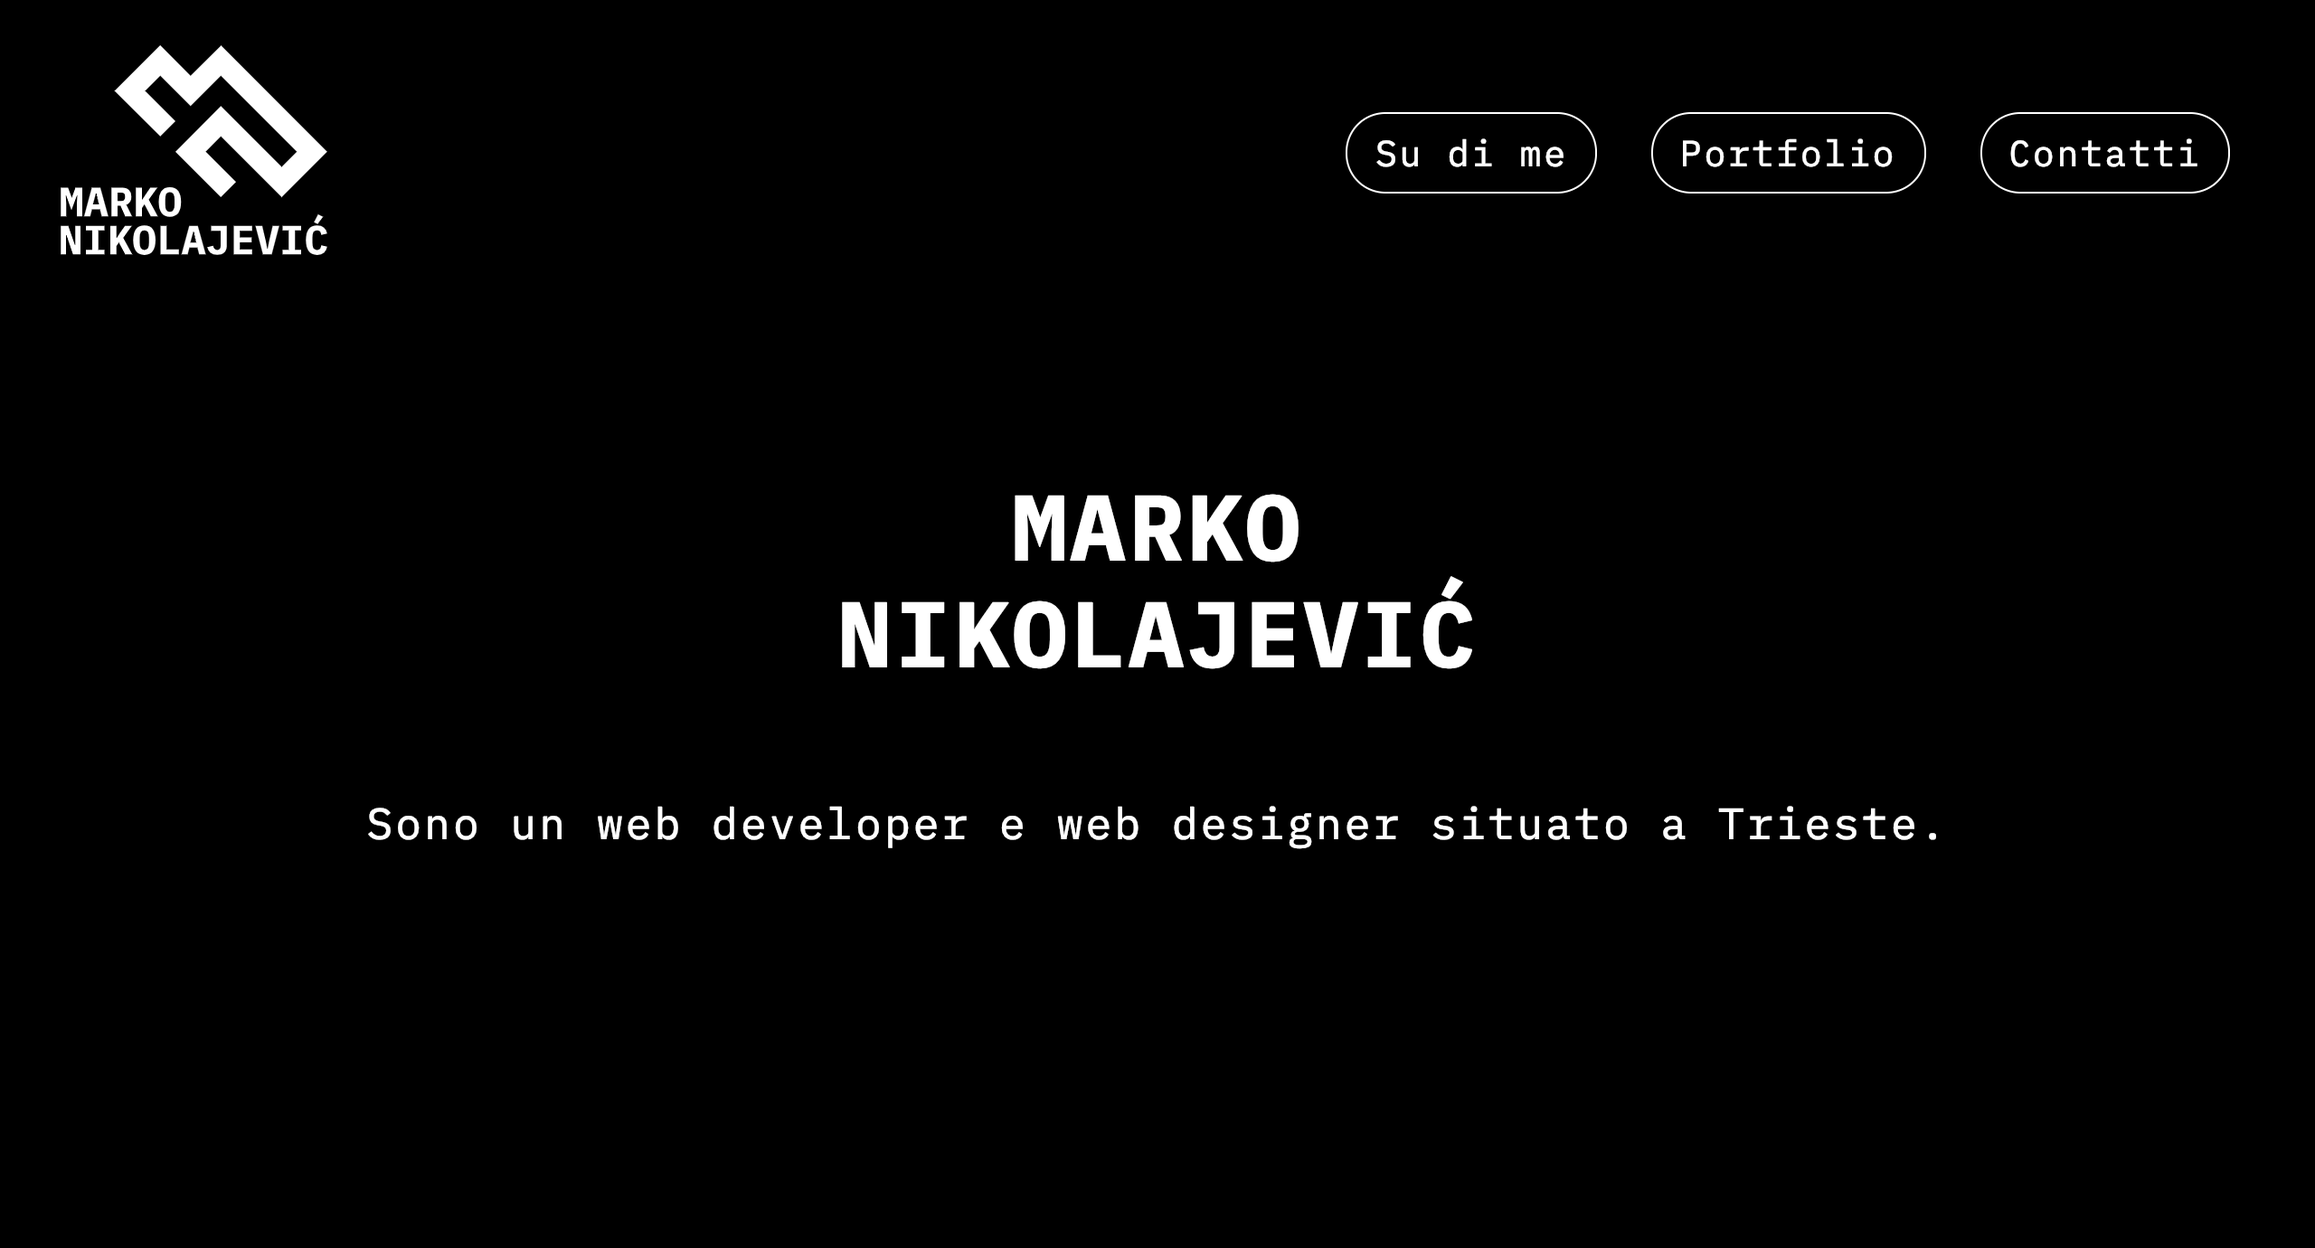
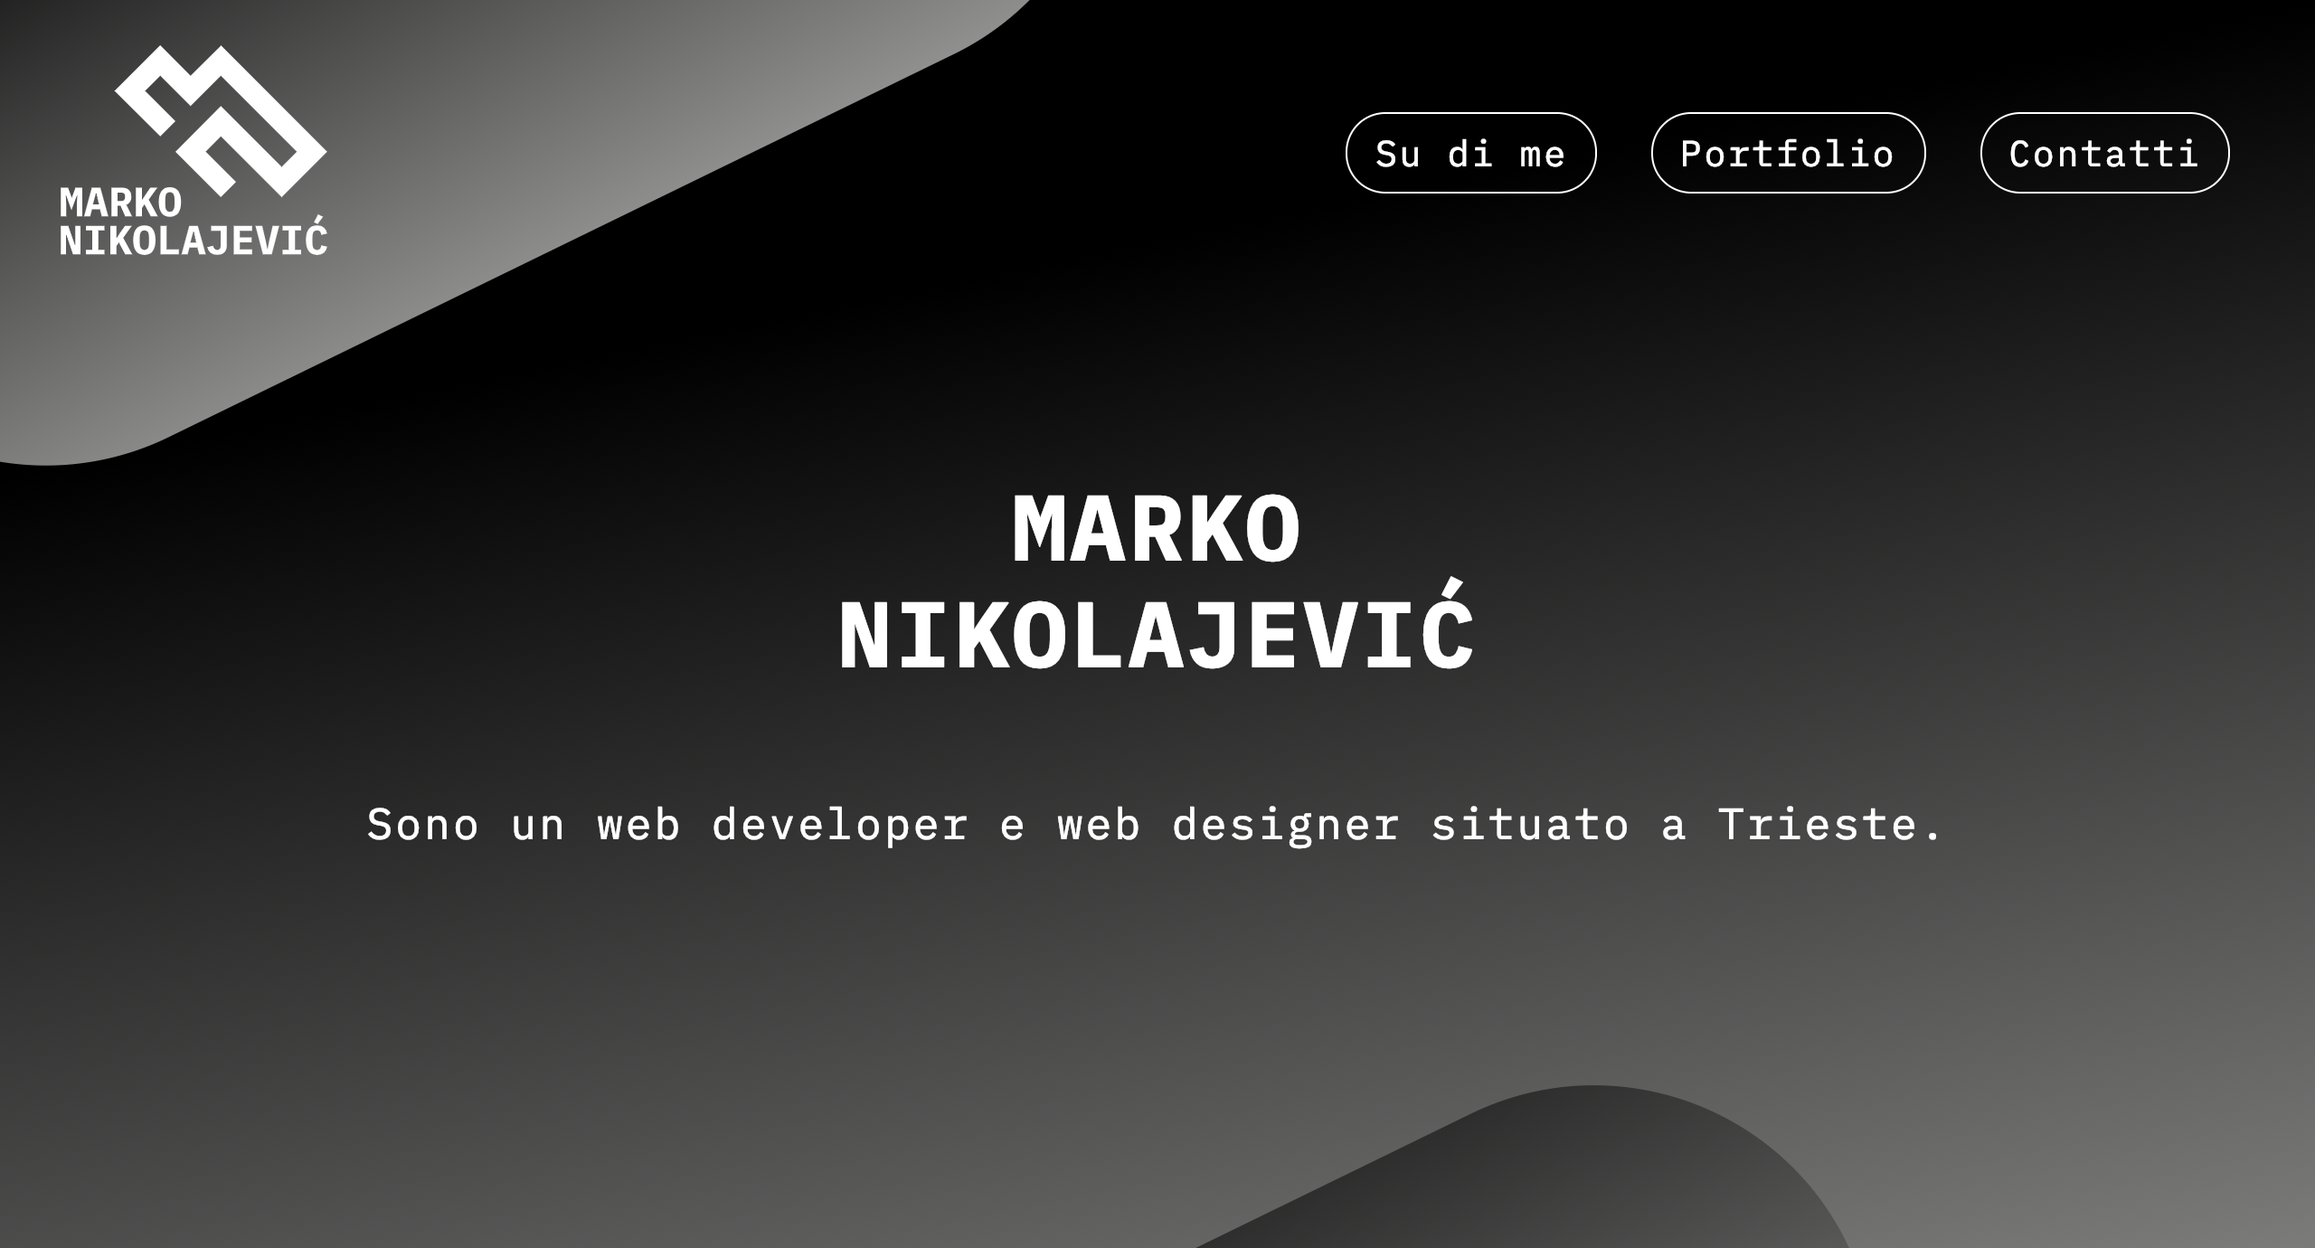
Updates

diff --git a/static/css/main.69d33846.chunk.css b/static/css/main.69d33846.chunk.css
@@ -1,0 +1,2 @@
+/*! normalize.css v8.0.1 | MIT License | github.com/necolas/normalize.css */html{line-height:1.15;-webkit-text-size-adjust:100%;scroll-behavior:smooth}body{margin:0;font-family:IBM Plex Mono,monospace}main{display:block}h1{font-size:2em;margin:.67em 0}hr{box-sizing:initial;height:0;overflow:visible}pre{font-family:monospace,monospace;font-size:1em}a{background-color:initial}abbr[title]{border-bottom:none;text-decoration:underline;text-decoration:underline dotted}b,strong{font-weight:bolder}code,kbd,samp{font-family:monospace,monospace;font-size:1em}small{font-size:80%}sub,sup{font-size:75%;line-height:0;position:relative;vertical-align:initial}sub{bottom:-.25em}sup{top:-.5em}img{border-style:none}button,input,optgroup,select,textarea{font-family:inherit;font-size:100%;line-height:1.15;margin:0}button,input{overflow:visible}button,select{text-transform:none}[type=button],[type=reset],[type=submit],button{-webkit-appearance:button}[type=button]::-moz-focus-inner,[type=reset]::-moz-focus-inner,[type=submit]::-moz-focus-inner,button::-moz-focus-inner{border-style:none;padding:0}[type=button]:-moz-focusring,[type=reset]:-moz-focusring,[type=submit]:-moz-focusring,button:-moz-focusring{outline:1px dotted ButtonText}fieldset{padding:.35em .75em .625em}legend{box-sizing:border-box;color:inherit;display:table;max-width:100%;padding:0;white-space:normal}progress{vertical-align:initial}textarea{overflow:auto}[type=checkbox],[type=radio]{box-sizing:border-box;padding:0}[type=number]::-webkit-inner-spin-button,[type=number]::-webkit-outer-spin-button{height:auto}[type=search]{-webkit-appearance:textfield;outline-offset:-2px}[type=search]::-webkit-search-decoration{-webkit-appearance:none}::-webkit-file-upload-button{-webkit-appearance:button;font:inherit}details{display:block}summary{display:list-item}[hidden],template{display:none}.main-header{background:url(/static/media/background.db29be2c.svg);background-position:50%;background-size:cover;background-repeat:no-repeat;height:100vh}.main-header .header-text{color:#fff;text-align:center;display:flex;flex-direction:column;height:100%;padding:1.5rem 2rem;margin:0 auto}.main-header .header-text .main-title{font-size:2.3rem;letter-spacing:1.5px;text-transform:uppercase;line-height:3rem;margin-top:10vh}.main-header .header-text .intro{font-size:1.2rem;line-height:1.7rem;letter-spacing:1.5px}@media screen and (min-width:30rem){.header-text{width:80%!important}.header-text .main-title{font-size:2.7rem!important;line-height:3.2rem!important}.header-text .intro{font-size:1.3rem!important;line-height:1.8rem!important}}@media screen and (min-width:48rem){.header-text{width:70%!important}.header-text .main-title{font-size:3.2rem!important;line-height:3.7rem!important}.header-text .intro{font-size:1.5rem!important;line-height:2rem!important}}@media screen and (min-width:60rem){.main-title{font-size:4.3rem!important;line-height:4.8rem!important}.intro{font-size:2.5rem!important;line-height:3rem!important}}@media screen and (min-width:63rem){.intro{font-size:3rem!important;line-height:3.5rem!important}}.navbar{background:trasparent;padding:1.5rem 2rem}.nav-flex{display:flex;align-items:center}.nav-flex .nav-link{text-decoration:none;color:#fff;padding:10px 15px;margin:0 15px;border-radius:25px;letter-spacing:1.3px;border:1px solid #fff;transition:all .5s ease-in-out;font-size:1.25rem}.nav-flex .nav-link:hover{background:#fff;color:#000}.nav-mobile{background:#dadad9;height:100vh;position:absolute;margin-left:-100%;opacity:0;display:flex;flex-direction:column;align-items:center;z-index:999}.nav-mobile,.nav-mobile .nav-link{width:100%;transition:all .5s ease-in-out}.nav-mobile .nav-link{text-decoration:none;color:#000;text-align:center;padding:1rem 0;font-weight:700;letter-spacing:1.3px;font-size:1.25rem;border-bottom:1px solid #000}.nav-mobile .nav-link:hover{background:#000;color:#dadad9}.nav-mobile .nav-link:first-of-type{margin-top:10vh;border-top:1px solid #000}.nav-mobile .wrapper{display:flex;margin-top:5rem}.show-menu-mobile{opacity:1;margin-left:0}.no-scroll{overflow:hidden}.brand-logo{margin-right:auto}picture,picture img{width:150px}.hamburger-menu{width:2rem;cursor:pointer;display:inline-block;transition:all .5s ease-in-out}.hamburger-menu .bar{background:#fff;width:100%;height:3px;margin:6px 0;border-radius:50px;transition:all .5s ease-in-out}.hamburger-menu .bar:first-child{width:70%}.hamburger-menu .bar:last-child{width:70%;margin-left:auto}.animated .bar:first-child{transform:translateY(9px);background:#0abaee}.animated .bar:nth-child(2){opacity:0}.animated .bar:last-child{transform:translateY(-9px);background:#0abaee}#about{background:#fff;display:flex;flex-direction:column;justify-content:center;align-items:center;text-align:center;padding:3rem 2rem}#about .profile-picture{margin-top:1rem;width:250px;height:250px;border-radius:50%}#about .personale-desc{font-size:1rem;line-height:1.3rem;letter-spacing:1.2rem;padding-top:2rem}@media screen and (min-width:48rem){#about{flex-direction:row!important}#about .profile-picture{flex-basis:100%}#about .personal-desc{padding-left:2rem}}#portfolio{background:url(/static/media/background2.98f7d3e2.svg);background-position:50%;background-size:cover;background-repeat:no-repeat;padding:3rem 2rem;display:grid;grid-gap:2rem;grid-template-columns:1fr}@media screen and (min-width:30rem){#portfolio{grid-template-columns:repeat(2,1fr)!important}}@media screen and (min-width:48rem) and (orientation:landscape){#portfolio{grid-template-columns:repeat(3,1fr)!important}}@media screen and (min-width:60rem){#portfolio{grid-template-columns:repeat(2,1fr)!important}}.project-card{background:#dadad9;border-radius:5px;box-shadow:0 5px 10px 0 rgba(33,33,33,.7);transition:all .5s ease-in-out}.project-card:hover{box-shadow:0 7px 13px 0 rgba(33,33,33,.7);transform:scale(1.025)}.project-card:hover .fa-arrow-right{animation:arrow-animation 1.5s infinite}.project-card .project-image{width:100%;border-top-left-radius:5px;border-top-right-radius:5px}.project-card .project-image img{width:100%}.project-card .project-text{padding:0 1.25rem 1.25rem;color:#000}.project-card .project-text .project-title{font-size:1.25rem;letter-spacing:1.2px;line-height:1.5rem}.project-card .project-text .project-description{font-size:1rem;letter-spacing:1px;opacity:.7;line-height:1.25rem}.project-card .project-text .project-link{text-decoration:none;font-size:1.05rem;letter-spacing:1px;color:#000;display:flex;align-items:center;transition:all .5s ease-in-out}.project-card .project-text .project-link .fa-arrow-right{padding-left:10px}@keyframes arrow-animation{0%{transform:none}50%{transform:translateX(20px)}to{transform:none}}#contact{background:linear-gradient(65deg,#000 -5%,#dadad9 125%);padding:3rem 2rem;color:#fff}#contact .form{display:flex;flex-direction:column}#contact .form label{padding:20px 0 5px;font-weight:700;letter-spacing:1.2px;text-transform:uppercase;font-size:1rem}#contact .form input,#contact .form textarea{padding:7px 3px;letter-spacing:1px}#contact .form input::placeholder,#contact .form textarea::placeholder{opacity:.7}#contact .form .submit-btn{width:220px;height:40px;background:#0abaee;cursor:pointer;border:1px solid #0abaee;text-transform:uppercase;border-radius:5px;color:#fff;margin:1.25rem auto 1rem;transition:all .5s ease-in-out}#contact .form .submit-btn:hover{background:#0894bd;transform:translateY(-2px)}@media screen and (min-width:48rem){.form{width:80vw!important;margin:0 auto}}.footer{background:#dadad9;color:#000;padding:2rem;display:flex;flex-direction:column;align-items:center;justify-content:flex-end}.footer-links-container{width:100%;display:flex;justify-content:center;align-self:center}.footer-links{text-align:center;padding-top:2rem}.footer-link{text-decoration:none;color:grey;font-size:2rem;padding:0 10px}.fa-github{transition:all .5s ease-in-out}.fa-github:hover{color:#6e5494;transform:scale(1.2)}.fa-twitter{transition:all .5s ease-in-out}.fa-twitter:hover{color:#1da1f2;transform:scale(1.2)}.fa-linkedin-in{transition:all .5s ease-in-out}.fa-linkedin-in:hover{color:#0077b5;transform:scale(1.2)}.fa-linkedin-in .copyright{padding:0}
+/*# sourceMappingURL=main.69d33846.chunk.css.map */

diff --git a/index.html b/index.html
@@ -1,1 +1,1 @@
-<!doctype html><html lang="it"><head><meta charset="UTF-8"><meta name="viewport" content="width=device-width,initial-scale=1"><meta http-equiv="X-UA-Compatible" content="ie=edge"><title>Marko Nikolajević - Front End Developer</title><meta name="author" content="Marko Nikolajević"><meta name="keywords" content="Web developer e web designer situato a Trieste, front end developer, web designer, Trieste"><meta name="description" content="Marko Nikolajević - front end developer e web designer "><meta itemprop="name" content="Marko Nikolajević - Front End Developer"><meta itemprop="description" content="Marko Nikolajević - front end developer e web designer "><meta itemprop="image" content="https://www.markonikolajevic.com/site-img.png"><meta property="og:url" content="https://www.markonikolajevic.com"><meta property="og:type" content="website"><meta property="og:title" content="Marko Nikolajević - Front End Developer"><meta property="og:description" content="Marko Nikolajević - front end developer e web designer "><meta property="og:image" content="https://www.markonikolajevic.com/site-img.png"><meta name="twitter:card" content="summary_large_image"><meta name="twitter:title" content="Marko Nikolajević - Front End Developer"><meta name="twitter:description" content="Marko Nikolajević - front end developer e web designer "><meta name="twitter:image" content="https://www.markonikolajevic.com/site-img.png"><link href="https://fonts.googleapis.com/css?family=IBM+Plex+Mono:400,700" rel="stylesheet"><script defer="defer" src="https://use.fontawesome.com/releases/v5.7.1/js/all.js" integrity="sha384-eVEQC9zshBn0rFj4+TU78eNA19HMNigMviK/PU/FFjLXqa/GKPgX58rvt5Z8PLs7" crossorigin="anonymous"></script><link href="/static/css/main.89db0b61.chunk.css" rel="stylesheet"></head><body><div id="app"></div><script async src="https://www.googletagmanager.com/gtag/js?id=UA-112631217-1"></script><script>function gtag(){dataLayer.push(arguments)}window.dataLayer=window.dataLayer||[],gtag("js",new Date),gtag("config","UA-112631217-1")</script><script>!function(l){function e(e){for(var r,t,n=e[0],o=e[1],u=e[2],f=0,i=[];f<n.length;f++)t=n[f],p[t]&&i.push(p[t][0]),p[t]=0;for(r in o)Object.prototype.hasOwnProperty.call(o,r)&&(l[r]=o[r]);for(s&&s(e);i.length;)i.shift()();return c.push.apply(c,u||[]),a()}function a(){for(var e,r=0;r<c.length;r++){for(var t=c[r],n=!0,o=1;o<t.length;o++){var u=t[o];0!==p[u]&&(n=!1)}n&&(c.splice(r--,1),e=f(f.s=t[0]))}return e}var t={},p={1:0},c=[];function f(e){if(t[e])return t[e].exports;var r=t[e]={i:e,l:!1,exports:{}};return l[e].call(r.exports,r,r.exports,f),r.l=!0,r.exports}f.m=l,f.c=t,f.d=function(e,r,t){f.o(e,r)||Object.defineProperty(e,r,{enumerable:!0,get:t})},f.r=function(e){"undefined"!=typeof Symbol&&Symbol.toStringTag&&Object.defineProperty(e,Symbol.toStringTag,{value:"Module"}),Object.defineProperty(e,"__esModule",{value:!0})},f.t=function(r,e){if(1&e&&(r=f(r)),8&e)return r;if(4&e&&"object"==typeof r&&r&&r.__esModule)return r;var t=Object.create(null);if(f.r(t),Object.defineProperty(t,"default",{enumerable:!0,value:r}),2&e&&"string"!=typeof r)for(var n in r)f.d(t,n,function(e){return r[e]}.bind(null,n));return t},f.n=function(e){var r=e&&e.__esModule?function(){return e.default}:function(){return e};return f.d(r,"a",r),r},f.o=function(e,r){return Object.prototype.hasOwnProperty.call(e,r)},f.p="/";var r=window.webpackJsonp=window.webpackJsonp||[],n=r.push.bind(r);r.push=e,r=r.slice();for(var o=0;o<r.length;o++)e(r[o]);var s=n;a()}([])</script><script src="/static/js/2.785d98be.chunk.js"></script><script src="/static/js/main.120185f8.chunk.js"></script></body></html>
+<!doctype html><html lang="it"><head><meta charset="UTF-8"><meta name="viewport" content="width=device-width,initial-scale=1"><meta http-equiv="X-UA-Compatible" content="ie=edge"><title>Marko Nikolajević - Front End Developer</title><meta name="author" content="Marko Nikolajević"><meta name="keywords" content="Web developer e web designer situato a Trieste, front end developer, web designer, Trieste"><meta name="description" content="Marko Nikolajević - front end developer e web designer "><meta itemprop="name" content="Marko Nikolajević - Front End Developer"><meta itemprop="description" content="Marko Nikolajević - front end developer e web designer "><meta itemprop="image" content="https://www.markonikolajevic.com/site-img.png"><meta property="og:url" content="https://www.markonikolajevic.com"><meta property="og:type" content="website"><meta property="og:title" content="Marko Nikolajević - Front End Developer"><meta property="og:description" content="Marko Nikolajević - front end developer e web designer "><meta property="og:image" content="https://www.markonikolajevic.com/site-img.png"><meta name="twitter:card" content="summary_large_image"><meta name="twitter:title" content="Marko Nikolajević - Front End Developer"><meta name="twitter:description" content="Marko Nikolajević - front end developer e web designer "><meta name="twitter:image" content="https://www.markonikolajevic.com/site-img.png"><link href="https://fonts.googleapis.com/css?family=IBM+Plex+Mono:400,700" rel="stylesheet"><script defer="defer" src="https://use.fontawesome.com/releases/v5.7.1/js/all.js" integrity="sha384-eVEQC9zshBn0rFj4+TU78eNA19HMNigMviK/PU/FFjLXqa/GKPgX58rvt5Z8PLs7" crossorigin="anonymous"></script><link href="/static/css/main.69d33846.chunk.css" rel="stylesheet"></head><body><div id="app"></div><script async src="https://www.googletagmanager.com/gtag/js?id=UA-112631217-1"></script><script>function gtag(){dataLayer.push(arguments)}window.dataLayer=window.dataLayer||[],gtag("js",new Date),gtag("config","UA-112631217-1")</script><script>!function(l){function e(e){for(var r,t,n=e[0],o=e[1],u=e[2],f=0,i=[];f<n.length;f++)t=n[f],p[t]&&i.push(p[t][0]),p[t]=0;for(r in o)Object.prototype.hasOwnProperty.call(o,r)&&(l[r]=o[r]);for(s&&s(e);i.length;)i.shift()();return c.push.apply(c,u||[]),a()}function a(){for(var e,r=0;r<c.length;r++){for(var t=c[r],n=!0,o=1;o<t.length;o++){var u=t[o];0!==p[u]&&(n=!1)}n&&(c.splice(r--,1),e=f(f.s=t[0]))}return e}var t={},p={1:0},c=[];function f(e){if(t[e])return t[e].exports;var r=t[e]={i:e,l:!1,exports:{}};return l[e].call(r.exports,r,r.exports,f),r.l=!0,r.exports}f.m=l,f.c=t,f.d=function(e,r,t){f.o(e,r)||Object.defineProperty(e,r,{enumerable:!0,get:t})},f.r=function(e){"undefined"!=typeof Symbol&&Symbol.toStringTag&&Object.defineProperty(e,Symbol.toStringTag,{value:"Module"}),Object.defineProperty(e,"__esModule",{value:!0})},f.t=function(r,e){if(1&e&&(r=f(r)),8&e)return r;if(4&e&&"object"==typeof r&&r&&r.__esModule)return r;var t=Object.create(null);if(f.r(t),Object.defineProperty(t,"default",{enumerable:!0,value:r}),2&e&&"string"!=typeof r)for(var n in r)f.d(t,n,function(e){return r[e]}.bind(null,n));return t},f.n=function(e){var r=e&&e.__esModule?function(){return e.default}:function(){return e};return f.d(r,"a",r),r},f.o=function(e,r){return Object.prototype.hasOwnProperty.call(e,r)},f.p="/";var r=window.webpackJsonp=window.webpackJsonp||[],n=r.push.bind(r);r.push=e,r=r.slice();for(var o=0;o<r.length;o++)e(r[o]);var s=n;a()}([])</script><script src="/static/js/2.785d98be.chunk.js"></script><script src="/static/js/main.120185f8.chunk.js"></script></body></html>

diff --git a/precache-manifest.ed0ff46064f5298fdff68c9265a06fc5.js b/precache-manifest.ed0ff46064f5298fdff68c9265a06fc5.js
@@ -1,23 +1,31 @@
 self.__precacheManifest = (self.__precacheManifest || []).concat([
   {
-    "revision": "bcc13ca1b6318d5fac09c979624d549d",
+    "revision": "0ce0d170668a6fce7219bd23fdc6b0ca",
     "url": "/index.html"
   },
   {
-    "revision": "ebd25906c492e52f6bd4",
-    "url": "/static/css/main.89db0b61.chunk.css"
+    "revision": "81655c9cd24427156bd2",
+    "url": "/static/css/main.69d33846.chunk.css"
   },
   {
     "revision": "dd5278e81a4b99a1f46f",
     "url": "/static/js/2.785d98be.chunk.js"
   },
   {
-    "revision": "ebd25906c492e52f6bd4",
+    "revision": "81655c9cd24427156bd2",
     "url": "/static/js/main.120185f8.chunk.js"
   },
   {
     "revision": "42ac5946195a7306e2a5",
     "url": "/static/js/runtime~main.a8a9905a.js"
+  },
+  {
+    "revision": "db29be2c251018839eaf962aba67b1d0",
+    "url": "/static/media/background.db29be2c.svg"
+  },
+  {
+    "revision": "98f7d3e2b819fb3c95c1dfe8ba44d9d0",
+    "url": "/static/media/background2.98f7d3e2.svg"
   },
   {
     "revision": "0e1c9828fa729da5e57ffa62ea074c79",

diff --git a/service-worker.js b/service-worker.js
@@ -14,7 +14,7 @@
 importScripts("https://storage.googleapis.com/workbox-cdn/releases/4.3.1/workbox-sw.js");
 
 importScripts(
-  "/precache-manifest.c44bee57f8075fe7ddbbe058ae028f79.js"
+  "/precache-manifest.ed0ff46064f5298fdff68c9265a06fc5.js"
 );
 
 self.addEventListener('message', (event) => {
